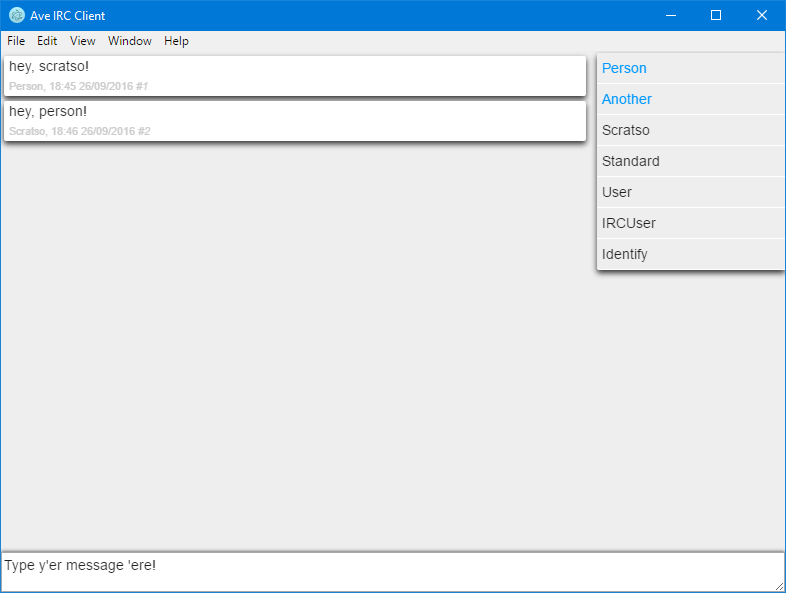
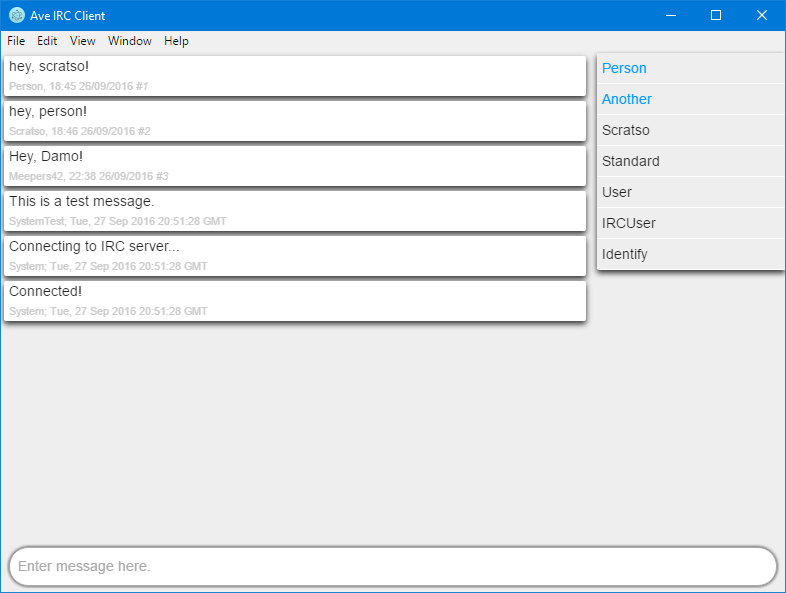
Styled textarea inspired more off Google Allo's design.

Changed region(s): [[0.0, 0.2428, 0.7634, 0.5767], [0.0, 0.9106, 1.0, 1.0]]

diff --git a/app/res/css/style.css b/app/res/css/style.css
@@ -21,7 +21,7 @@ body {
 .chatLog {
     width: 75%;
     min-width: 375px;
-    margin-bottom: 40px;
+    margin-bottom: 50px;
 }
 .chatLog .message {
     display: block;
@@ -84,13 +84,17 @@ body {
 
 .msg {
     position: fixed;
-    bottom: 0;
+    bottom: 5px;
+    left: 1vw;
     height: 40px;
 }
 .msg textarea {
-    height: 100%;
-    width: 100vw;
+    height: 98%;
+    width: 98vw;
     resize: none;
+    padding: 8px;
+    outline: none !important;
+    border-radius: 20px;
     -webkit-box-shadow: 0px 0px 5px rgba(0,0,0,.8);
            -moz-box-shadow: 0px 0px 5px rgba(0,0,0,.8);
                 box-shadow: 0px 0px 5px rgba(0,0,0,.8);
